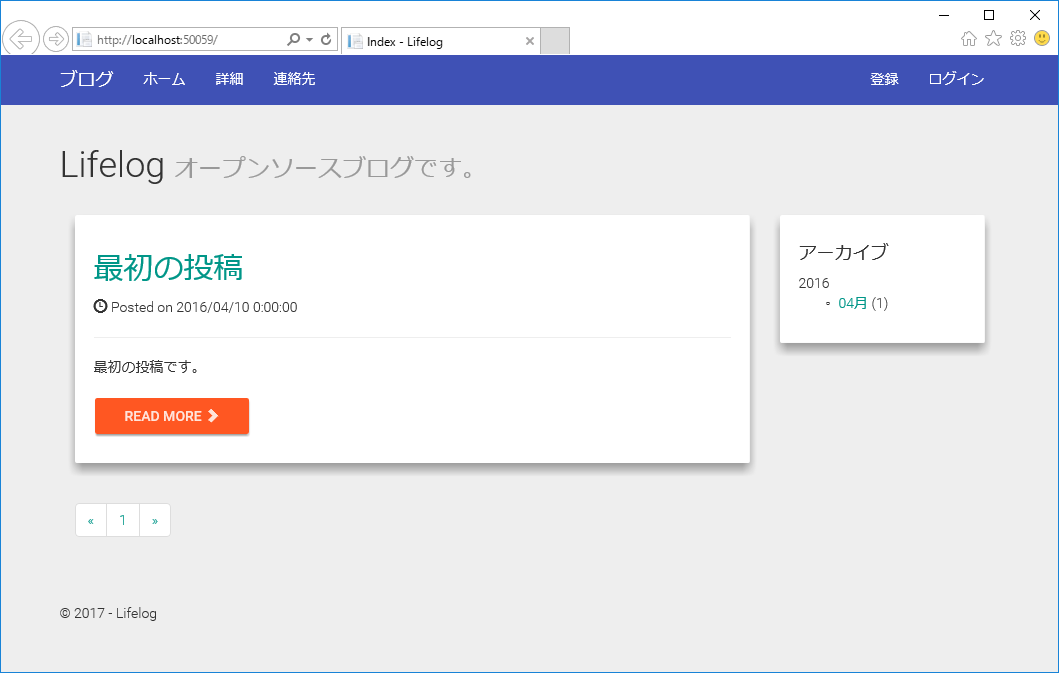
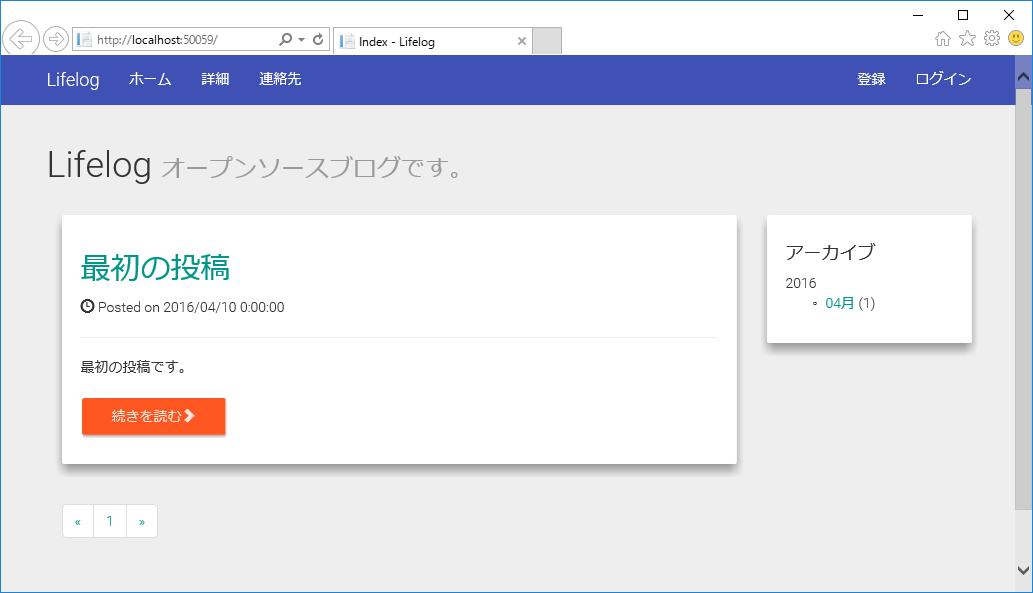
Updated resource files

diff --git a/Blog/Blog/Resources/BlogResources.Designer.cs b/Blog/Blog/Resources/BlogResources.Designer.cs
@@ -70,6 +70,42 @@ namespace Blog.Resources {
         }
         
         /// <summary>
+        ///   Lifelog に類似しているローカライズされた文字列を検索します。
+        /// </summary>
+        public static string BlogName {
+            get {
+                return ResourceManager.GetString("BlogName", resourceCulture);
+            }
+        }
+        
+        /// <summary>
+        ///   Contact に類似しているローカライズされた文字列を検索します。
+        /// </summary>
+        public static string Contact {
+            get {
+                return ResourceManager.GetString("Contact", resourceCulture);
+            }
+        }
+        
+        /// <summary>
+        ///   Detail に類似しているローカライズされた文字列を検索します。
+        /// </summary>
+        public static string Detail {
+            get {
+                return ResourceManager.GetString("Detail", resourceCulture);
+            }
+        }
+        
+        /// <summary>
+        ///   Home に類似しているローカライズされた文字列を検索します。
+        /// </summary>
+        public static string Home {
+            get {
+                return ResourceManager.GetString("Home", resourceCulture);
+            }
+        }
+        
+        /// <summary>
         ///   Log In に類似しているローカライズされた文字列を検索します。
         /// </summary>
         public static string LogIn {
